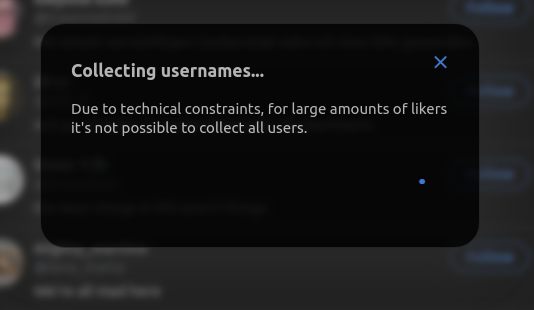
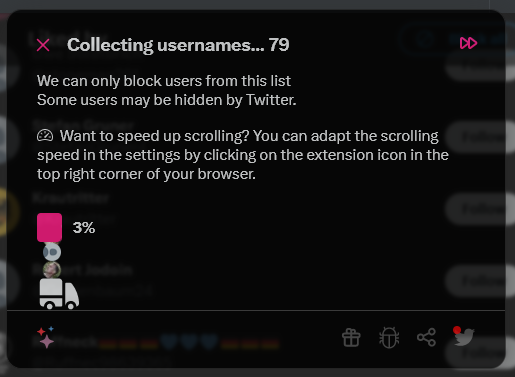
feat: update README with new screenshots and instructions

diff --git a/README.md b/README.md
@@ -2,7 +2,7 @@
 
 ![Logo](assets/icon128.png)
 
-A browser extension to block all visible likers (and optionally all retweeters) of a tweet on Twitter.
+A browser extension to block likers, retweeters, list members and Twitter ads and share your block lists with others.
 
 ![Preview](screenshots/preview2-medium.png)
 
@@ -10,8 +10,6 @@ Inspired by [Mario Sixtus (@sixtus)](https://twitter.com/sixtus):
 
 > In Übrigen wünsche ich mir für solche Fälle ein Twitter-Add-On, das alle Liker eines bestimmten Tweets blockt, weil es nur Arschlöcher sein können. Wer programmiert es?
 > – [10:41 am · 22 Feb. 2020](https://twitter.com/sixtus/status/1231152136857231360)
-
-In collaboration with [@pkreissel](https://twitter.com/pkreissel).
 
 ## Installation
 
@@ -25,47 +23,49 @@ In collaboration with [@pkreissel](https://twitter.com/pkreissel).
 
 ## Usage
 
-### Block likers of a tweet
+### Block likers or retweeters of a tweet
 
 - Once you click on a tweet, there is a link which indicates how many people liked this tweet.
-- Click on that link to get the list of all likers
+- Click on that link to get the list of all likers (or, to block the retweeters on the "retweeters" count)
 
   ![Screenshot](screenshots/likes.png)
+  ![Screenshot](screenshots/retweets.png)
 
-- Then click on the new button on the top which says "Block all".
-  ![Screenshot](screenshots/block-all-button.png)
-  ![Screenshot](screenshots/collecting-usernames.png)
-- You can also chose to block all retweeters of the tweet (only direct retweeters without comment).
-  ![Screenshot](screenshots/confirm.png)
-- Confirm to add the collected users to the blocking queue.
+- Then click on the new button on the top which says "Block all", wait until Likers Blocker has collected all accounts (or skip if a smaller portion is fine for you ![Screenshot](screenshots/this-is-fine-crop.png)) and confirm to add the users to the blocking queue.
+  ![Screenshot](screenshots/likers-blocker-collecting-and-confirm-animation.gif)
 - ✔ DONE. LikersBlocker will process the blocking queue bit by bit in the background.
+  You can find the status of the blocking queue by clicking on the extension icon in the upper right corner of your browser.
+  ![Screenshot](screenshots/likers-blocker-block-animation.gif)
 
-### Block all members of a list
+### Block all members or followers of a list
 
 - Click on a list of twitter users
-- Click on the number of members
+- Click on the number of members (or followers)
 - Proceed with point three above ("Block all")
 
-### Share your block list with others
+### Preferences
 
-Since Twitter has disabled its ability to import/export block lists, _LikersBlocker_ brings back the feature.
+![Screenshot](screenshots/likers-blocker-options.gif)
 
-#### Export
+### Import / Export
 
-- Go to "Settings and privacy" > "Content preferences" > "Blocked accounts" (Or just go to [https://twitter.com/settings/blocked/all](https://twitter.com/settings/blocked/all))
-- Click on the share button above the list of blocked accounts
-  ![Screenshot](screenshots/likers-blocker-share-block-list-btn.png)
+#### Only blocked by LikersBlocker
+
+- Go to the extension options by clicking on the options button in the bottom right corner of the extension popup:
+
+  ![Screenshot](screenshots/options-button.png)
+- On the top of the options page you can find a file select button to import a CSV file and an export button to export your block list. This will download a CSV file with all accounts that were blocked by the extension.
+![Screenshot](screenshots/import.png)
+
+#### All blocked from Twitter settings
+
+- _Alternatively_, you can "visually" collect all previously blocked accounts by clicking on the first link on the options page (which opens the [Twitter settings](https://twitter.com/settings/blocked/all)) and then on the share button.
+  ![Screenshot](screenshots/likers-blocker-export-all.png)
 - Wait a moment until all accounts from your list are collected (make sure to leave the tab in the foreground to avoid stopping the automatic down scrolling)
-- Copy and share the block links with other persons to share your block list with them.
-  ![Screenshot](screenshots/likers-blocker-share-block-list.png)
+  ![Screenshot](screenshots/likers-blocker-export-collecting.png)
+- After the collecting you can download the CSV file which includes all collected blocked accounts
+  ![Screenshot](screenshots/likers-blocker-export-all-confirm.png)
 
-#### Import
-
-- When you receive a block link, just click on it or enter it into the address bar of your browser.
-- If you use it for the first time, you will have to authorize the app to access your twitter account.
-- You get a list of all users that are about to be blocked.
-- Confirm and wait for the success message.
-- ✔ DONE. All the collected likers of the tweet are blocked. 😇
 
 ## Found an error or want to suggest a feature?
 
@@ -81,27 +81,31 @@ To test the extension locally:
 
 ### Build
 
-- Install Node.js 16.x
+#### Prerequisites
 
-Or, if you different node versions on your machine for different projects, you can use Node Version Manager (NVM) and run:
+Install Node.js 16.x
+
+Or, if you different node versions on your machine for different projects, you can use Node Version Manager (NVM) and run the following command in the repository directory:
 
 ```bash
 nvm use
 ```
 
-In the repository directory, run:
+#### Install the dependencies
 
 ```bash
 npm install
 ```
 
+#### Start the build process in watch mode
+
 ```bash
-npm run build
+npm start
 ```
 
-### Run
+### Load the local extension in your browser
 
-#### Chrome
+#### Chromium
 
 - Go to `chrome://extensions`
 - Enable the developer mode with the regarding toggle button on the right side
@@ -128,8 +132,8 @@ We would highly appreciate if you considered donating a little tip, rate this ex
 
 ### Donate
 
-- 💝 [paypal.me/dmstr](https://paypal.me/dmstr)
-- 💝 [paypal.me/philipkreissel](https://paypal.me/philipkreissel)
+- 💝 **[paypal.me/dmstr](https://paypal.me/dmstr)**
+- 💝 **[paypal.me/philipkreissel](https://paypal.me/philipkreissel)**
 
 ### Rate
 
@@ -137,7 +141,7 @@ We would highly appreciate if you considered donating a little tip, rate this ex
 
 ### Share
 
-[🐦 Tweet about this extension](<https://twitter.com/share?text=With the @LikersBlocker you can block people that like hate speech.&url=https://dmstern.github.io/likers-blocker&hashtags=LikersBlocker,sayNoToHateSpeech>) and tell your friends!
+[🐦 Tweet about this extension](<<https://twitter.com/share?text=With> the @LikersBlocker you can block people that like hate speech.&url=<https://dmstern.github.io/likers-blocker&hashtags=LikersBlocker>,sayNoToHateSpeech>) and tell your friends!
 
 ### Follow us on Twitter
 
@@ -145,6 +149,6 @@ We would highly appreciate if you considered donating a little tip, rate this ex
 
 [![Likers Blocker](https://pbs.twimg.com/profile_images/1397331928928378880/3O3zY4bh_bigger.png)  @LikersBlocker](https://twitter.com/LikersBlocker)
 
-[![Philip Kreißel](https://pbs.twimg.com/profile_images/1427346761291599879/XZ6AgKyH_bigger.jpg)  @pkreissel](https://twitter.com/pkreissel) (Backend)
+<a href="https://twitter.com/pkreissel"><img src="https://pbs.twimg.com/profile_images/1427346761291599879/XZ6AgKyH_bigger.jpg" alt="Daniel Morgenstern" style="border-radius:50%;"> @pkreissel</a>
 
-[![Daniel Morgenstern](https://pbs.twimg.com/profile_images/1568632463055851520/zOdgX634_bigger.jpg)  @d_mstern](https://twitter.com/d_mstern) (Frontend)
+<a href="https://twitter.com/d_mstern"><img src="https://pbs.twimg.com/profile_images/1584902128694329350/St36d5Jg_bigger.jpg" alt="Daniel Morgenstern" style="border-radius:50%;"> @d_mstern</a>
